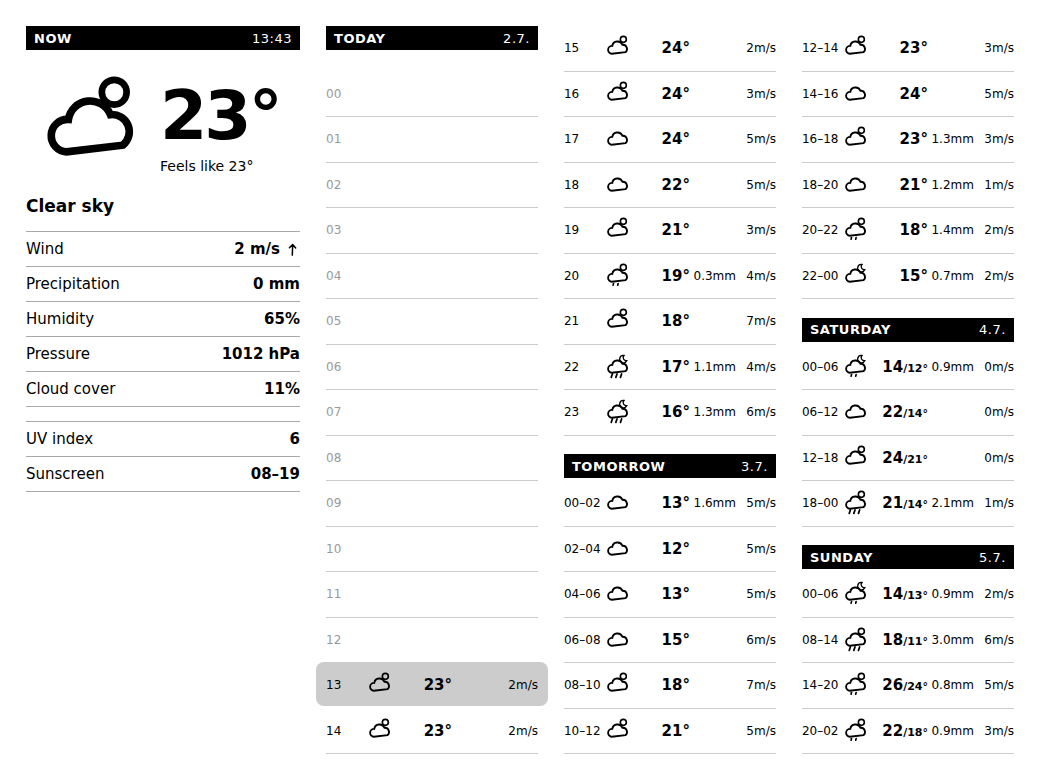
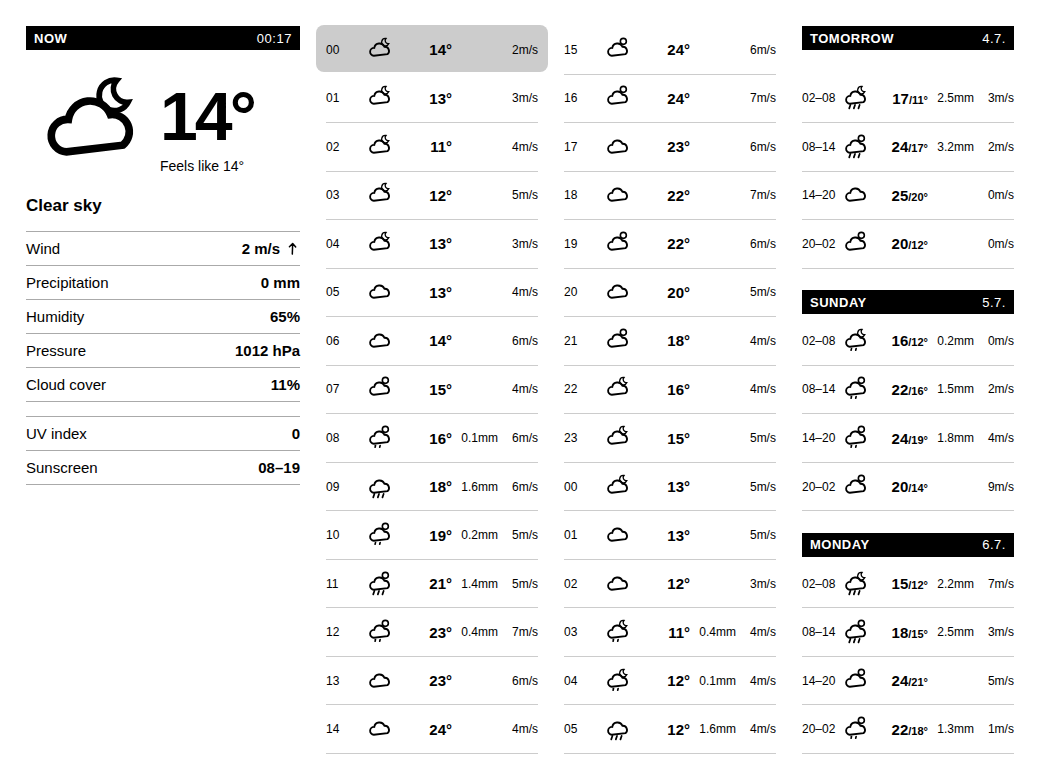
Restructure timeline: 30 hourly rows plus three days of 6-hour blocks
Replace the all-of-today view with a rolling window: the first two
forecast columns show the next 30 hours hour by hour (15 per column,
no day headers, current hour highlighted at the top), and the third
column shows tomorrow and the two days after as day sections with
four 6-hour max/min blocks each. That is 45 items in a 15-row grid,
so the structure is fixed at any render time.

Remove the code the old structure needed: past-hour placeholder rows,
their template and style, and the unused "today" day translation.

Claude-Session: https://claude.ai/code/session_01BjLckZ4r9M4BiUVff7Nv7s

diff --git a/README.md b/README.md
@@ -4,11 +4,11 @@ A weather forecast plugin for [TRMNL](https://usetrmnl.com) e-paper screens that
 
 ## Screenshots
 
-Summer afternoon (English) — current conditions with UV and sunscreen window, today hour by hour with the current hour highlighted, tomorrow in 2-hour steps, then 6-hour blocks:
+Summer (English) — current conditions with UV and sunscreen window, the next 30 hours hour by hour with the current hour highlighted, and 6-hour blocks for the next three days:
 
 ![Full layout, summer afternoon, English](screenshots/full-summer-en.png)
 
-Winter night (Norwegian) — negative temperatures, max/min ranges in the 6-hour blocks, no sunscreen window:
+Winter (Norwegian) — negative temperatures, max/min ranges in the 6-hour blocks, no sunscreen window:
 
 ![Full layout, winter night, Norwegian](screenshots/full-winter-no.png)
 
@@ -17,7 +17,7 @@ Winter night (Norwegian) — negative temperatures, max/min ranges in the 6-hour
 **Features:**
 - **Current Conditions Panel**: Large weather icon with temperature, "feels like" temperature (wind chill/heat index), wind speed and direction, precipitation, humidity, pressure, and cloud cover
 - **UV & Sunscreen Window**: Current clear-sky UV index and the time range when UV is forecast to be 3 or higher — i.e. when sunscreen is recommended (rolls over to tomorrow's window in the evening)
-- **Hour-by-hour Timeline**: Today always shows all 24 hours — past hours as dimmed placeholders (the met.no forecast API carries no past data) and the current hour highlighted — followed by tomorrow in 2-hour rows (precipitation summed, temperature averaged) and 6-hour blocks with max/min temperatures for the two days after, with day headers and dates at each day change
+- **Hour-by-hour Timeline**: The next 30 hours hour by hour with the current hour highlighted, plus 6-hour blocks with max/min temperatures for the next three days, following the API's native forecast windows
 - **Configurable Location**: Set custom latitude and longitude coordinates for any location
 - **Multi-language Support**: Available in English and Norwegian
 
